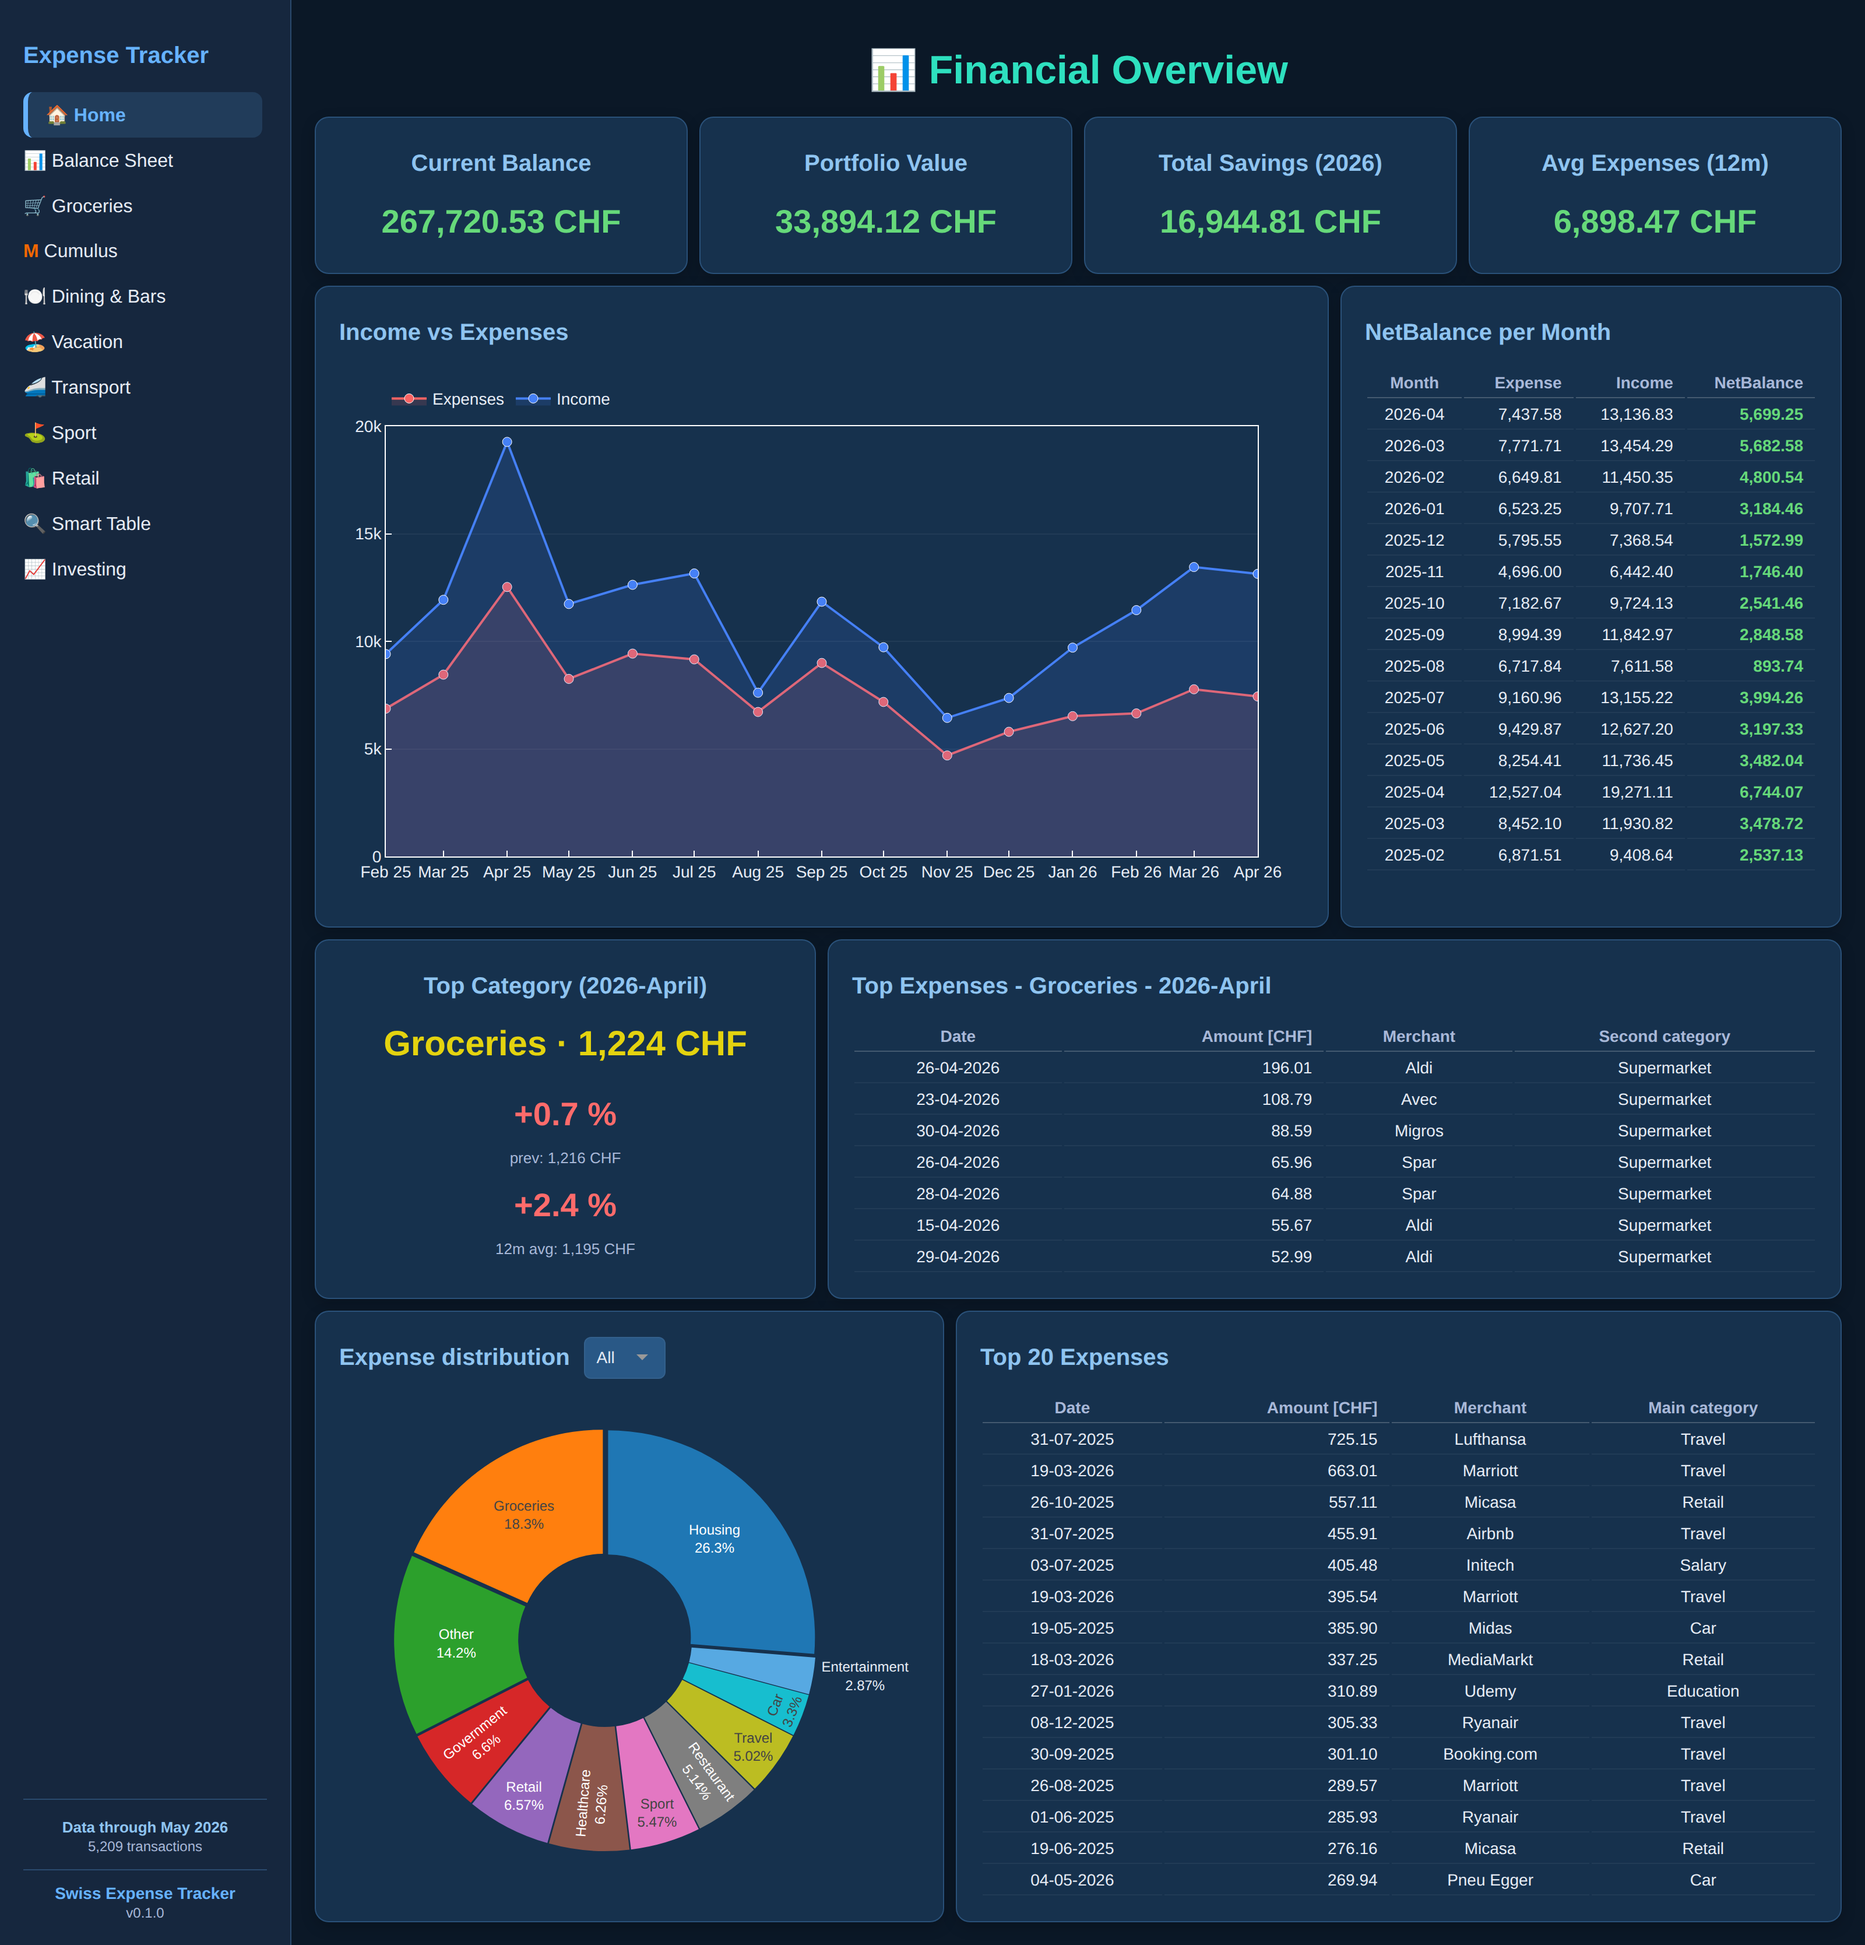
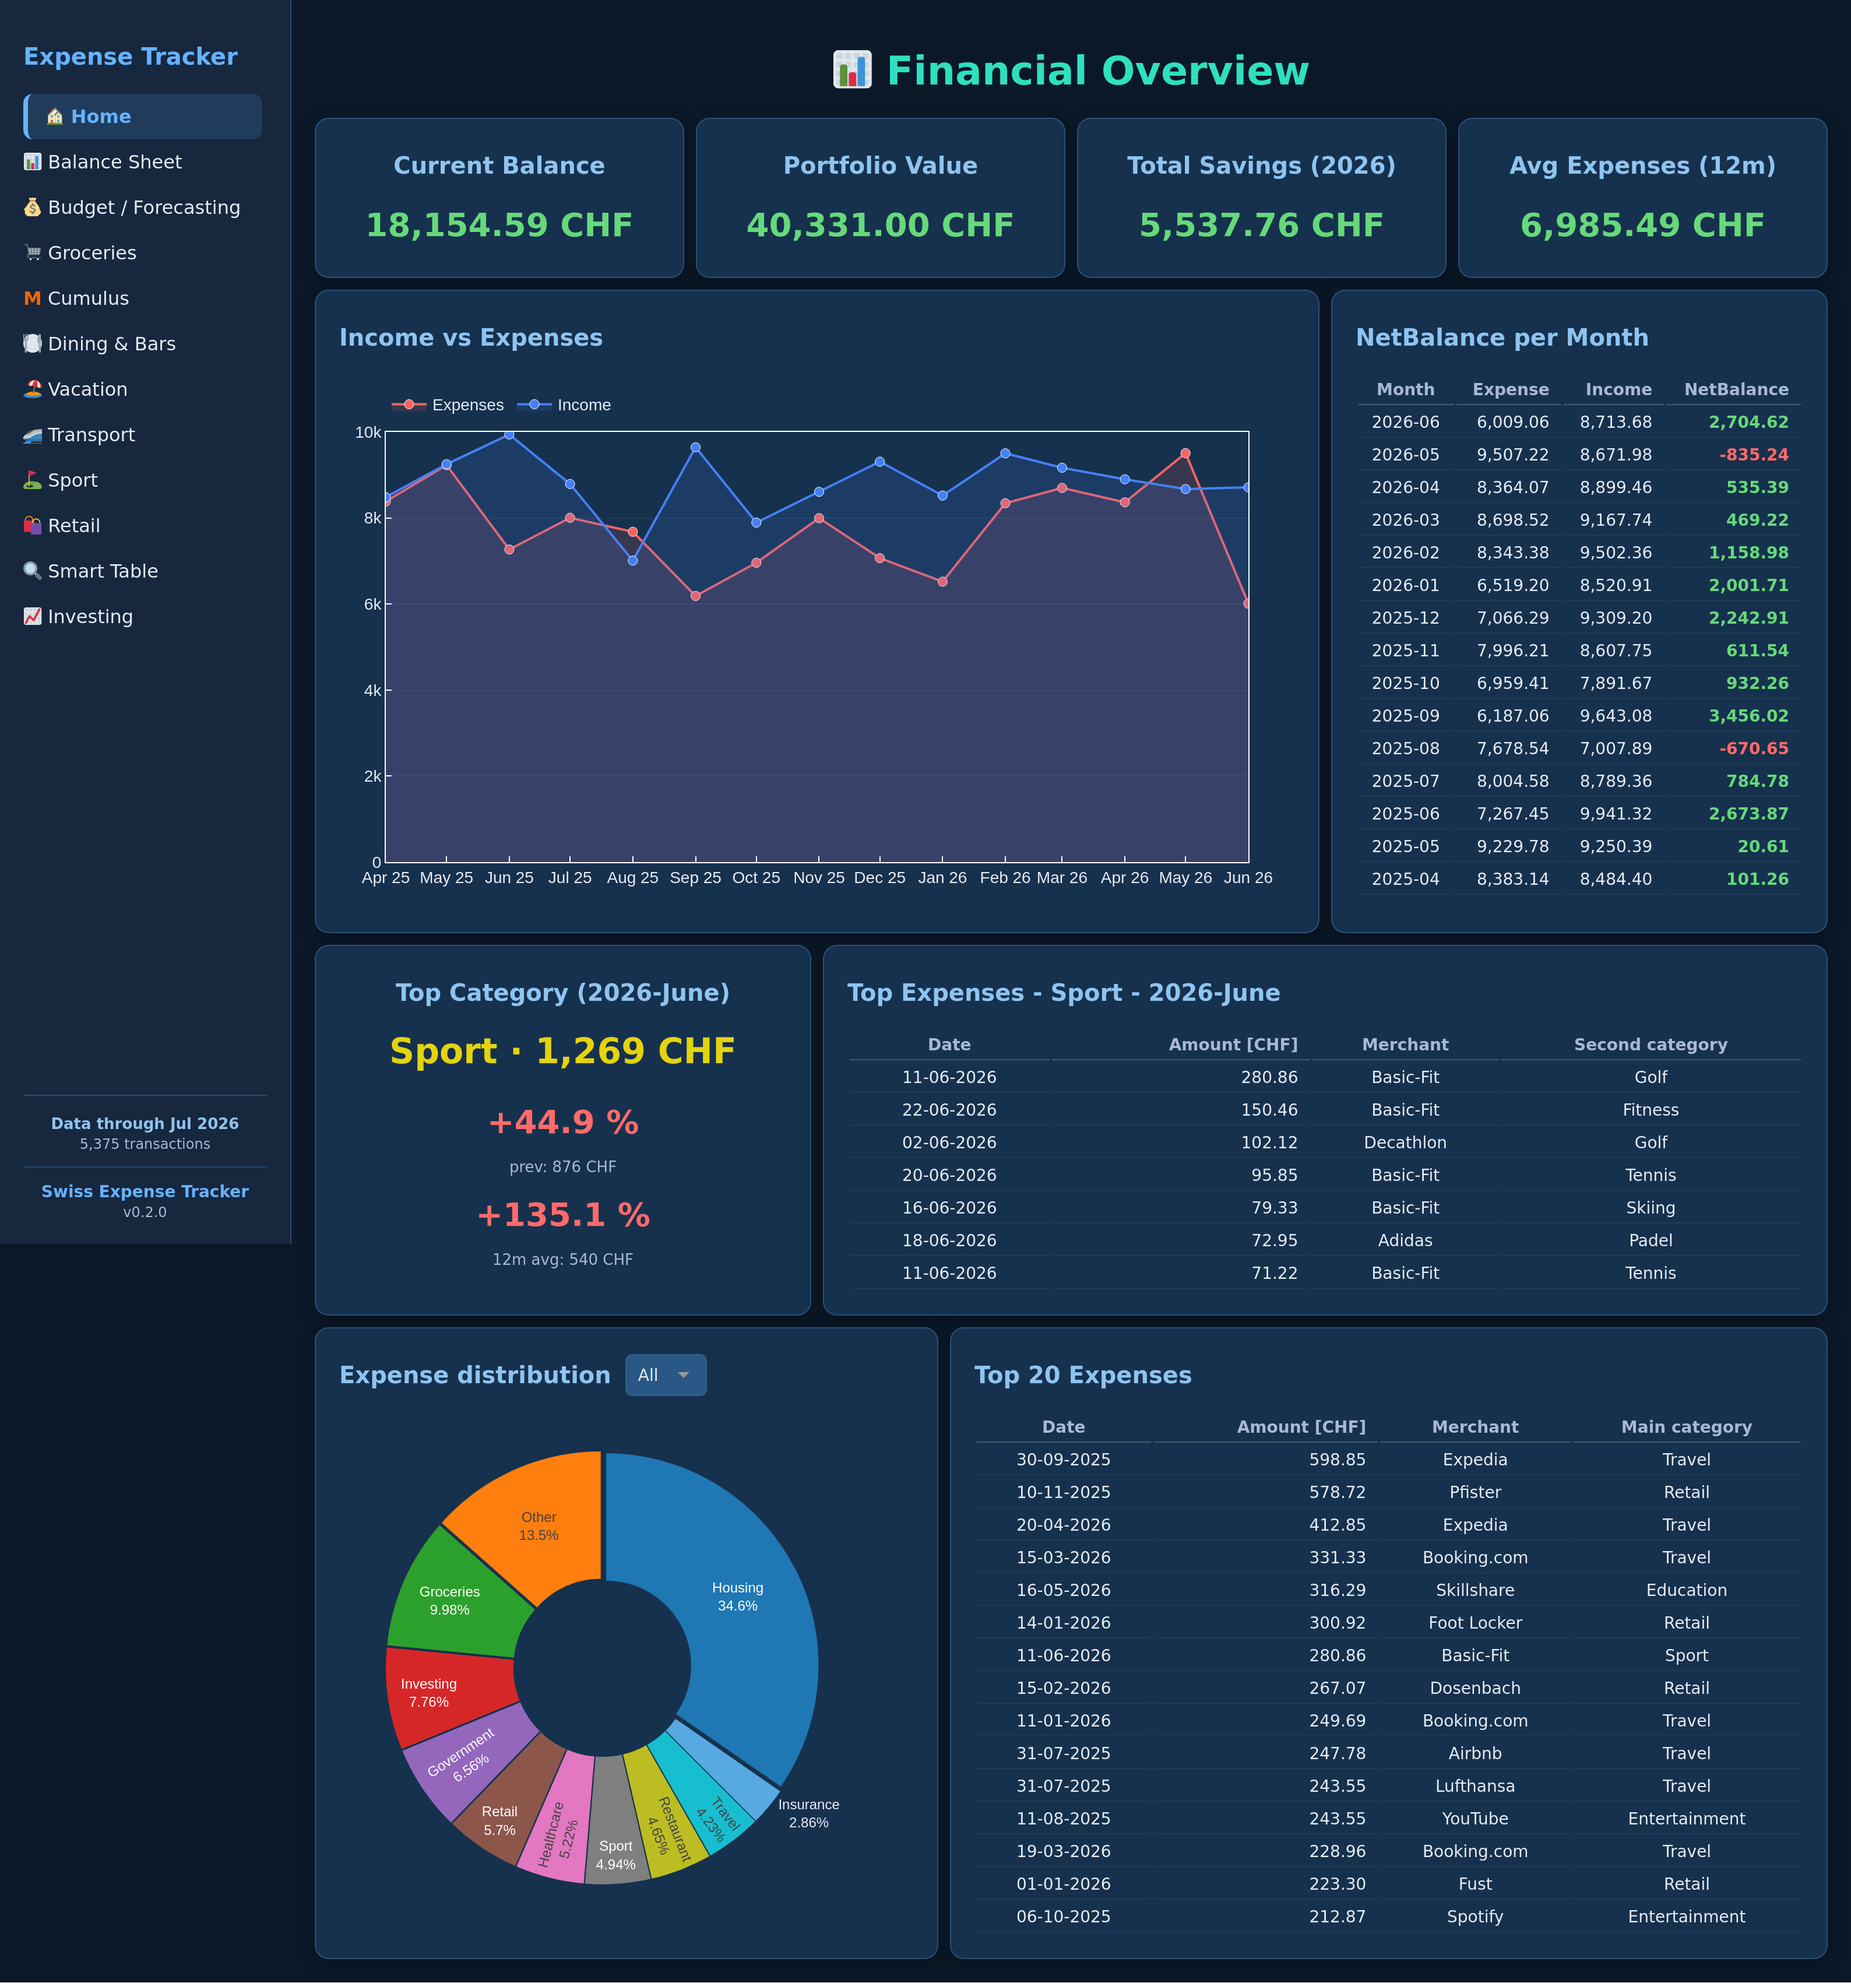
Generate new screenshots and exchange in README, fix dev docs numbers

diff --git a/README.md b/README.md
@@ -68,6 +68,12 @@ Year-by-year income, spending, investing and net gain with savings & YoY rates, 
 
 ![Balance Sheet](assets/balance-sheet.png)
 
+#### 💰 Budget / Forecasting
+
+Set a per-category budget for the year, then let the model project your end-of-year spend. It uses seasonal pacing (so a mid-year snapshot isn't naively doubled) and handles lumpy categories, and shows you at a glance where you stand now (Budget used Now) and where you'll likely land (Forecast EOY), with a per-category table flagging over/under budget.
+
+![Budget / Forecasting](assets/budget-forecast.png)
+
 #### 🛍 Retail
 
 Typical category based page with expenses by category and you can change the view by month or year.
@@ -81,10 +87,6 @@ Retail spending broken down by subcategory, an annual spend donut, and your larg
 Detected any suspicious transaction or exceptional big spike in the data? The fully filterable transaction browser helps you to find any transaction and you can slice it by date range, category, subcategory, merchant and amount. Sort the table to see the biggest transactions at the top.
 
 ![Smart Table](assets/smarttable.png)
-
-#### 💰 Budget / Forecasting
-
-Set a per-category budget for the year, then let the model project your end-of-year spend. It uses seasonal pacing (so a mid-year snapshot isn't naively doubled) and handles lumpy categories, and shows you at a glance where you stand now (Budget used Now) and where you'll likely land (Forecast EOY), with a per-category table flagging over/under budget.
 
 > _Screenshots use synthetic demo data, so no real data or figures are shown._
 
@@ -546,8 +548,8 @@ Detailed technical documentation lives in `.dev-docs/`:
 | [`03-dashboard.md`](.dev-docs/03-dashboard.md)                   | Every dashboard page, KPI cards, chart specs                      |
 | [`04-pipeline-dash.md`](.dev-docs/04-pipeline-dash.md)           | Pre-aggregation pipeline that feeds the dashboard                 |
 | [`05-budget-forecasting.md`](.dev-docs/05-budget-forecasting.md) | Year-end forecast model, seasonal pacing, lumpy-category handling |
-| [`05-running-and-deployment.md`](.dev-docs/05-running-and-deployment.md) | Pipeline entry point, local + Docker run, config, versioning      |
 | [`06-database-and-sql.md`](.dev-docs/06-database-and-sql.md)     | aiosql query layer, connection helpers, table creation/migrations |
+| [`07-running-and-deployment.md`](.dev-docs/07-running-and-deployment.md) | Pipeline entry point, local + Docker run, config, versioning      |
 
 ---
 

diff --git a/.dev-docs/02-ingestion-pipeline.md b/.dev-docs/02-ingestion-pipeline.md
@@ -269,7 +269,7 @@ sign of a single column via `expense_sign`.
 `user_config.py` reads the `DATA_DIR` environment variable (via `python-dotenv`,
 so a `.env` file works) and exposes it as `DIR_DATA` — the root of the local data
 folder where bank exports are dropped. It raises `RuntimeError` if `DATA_DIR` is
-unset. See [`05-running-and-deployment.md`](05-running-and-deployment.md) for the
+unset. See [`07-running-and-deployment.md`](07-running-and-deployment.md) for the
 full configuration and how `DATA_DIR` is wired in Docker.
 
 ---
